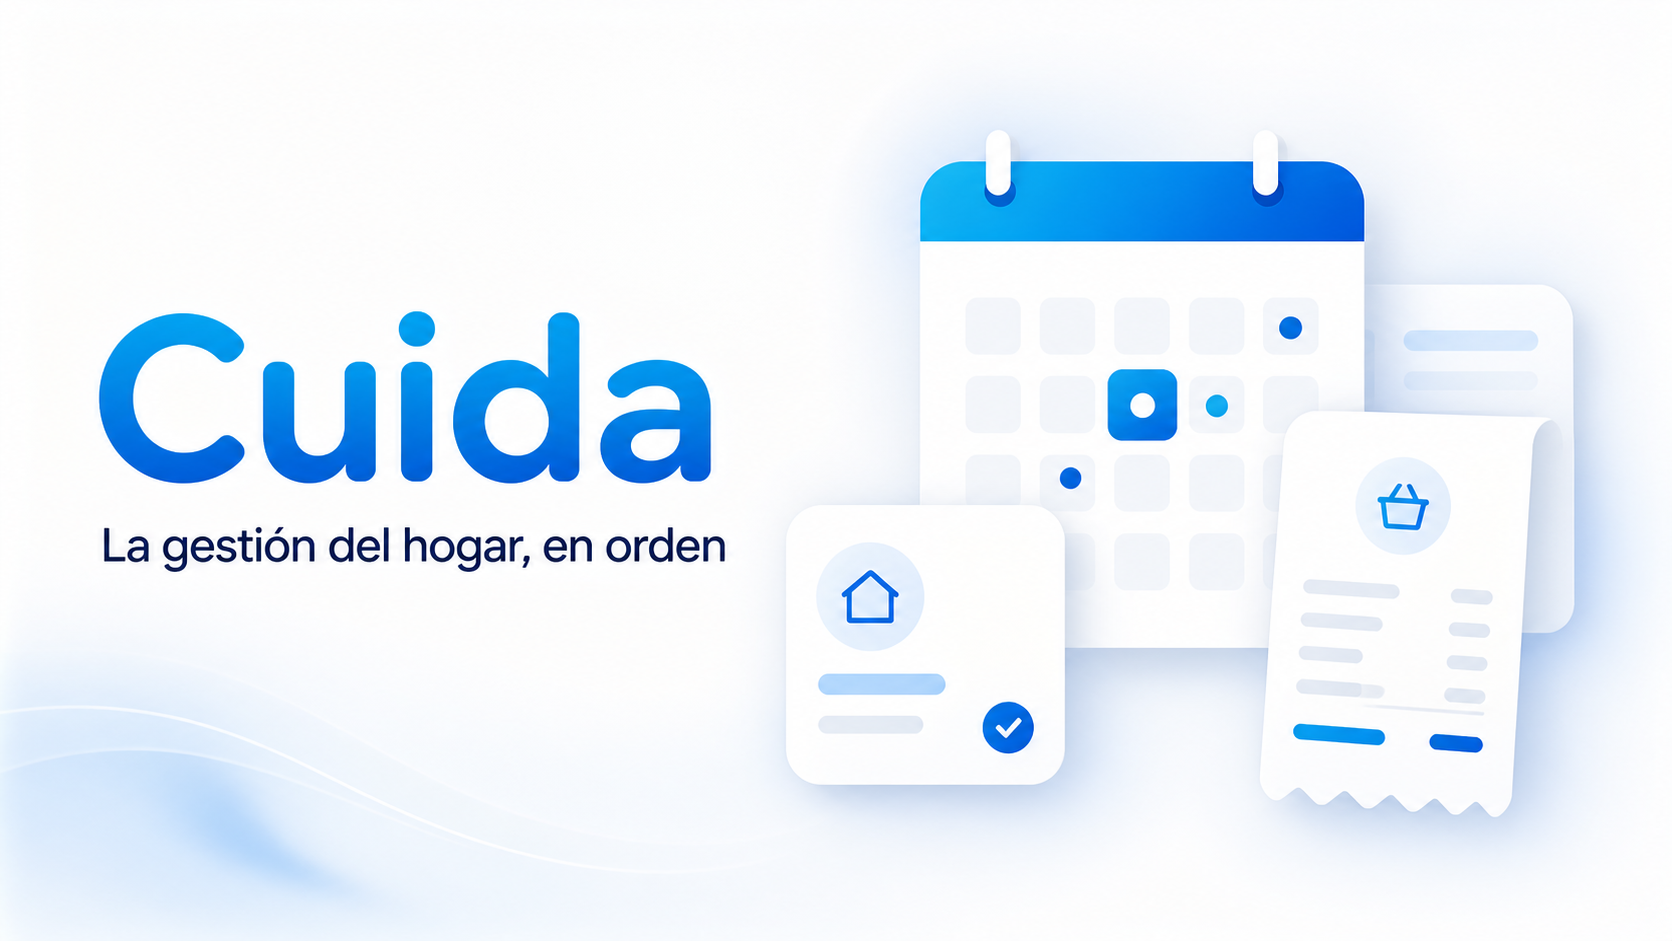
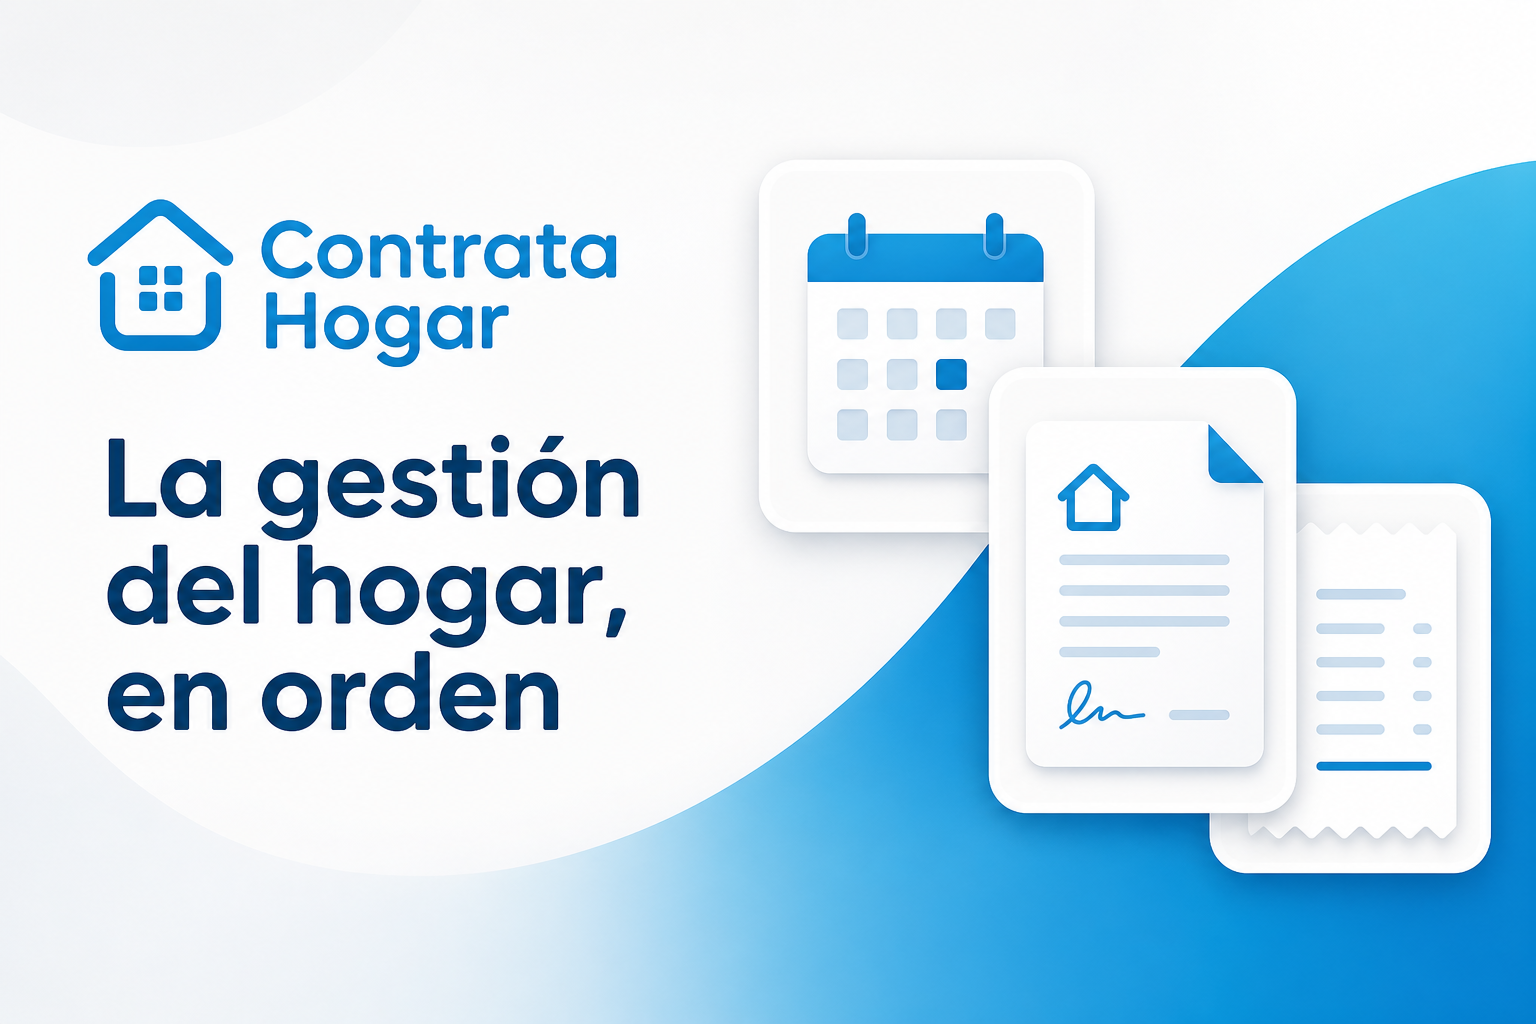
Rename app to Contrata Hogar

diff --git a/app/page.tsx b/app/page.tsx
@@ -7,7 +7,13 @@ export default function Home(){
  const deduction=useMemo(()=>+(salary*.0637).toFixed(2),[salary]),net=salary-deduction;
  const notify=(m:string)=>{setToast(m);window.setTimeout(()=>setToast(''),2600)};
  return <main className="shell">
-  <aside className="sidebar"><a className="brand" href="#top"><b>C</b><span>cuida</span></a><nav><a className="active" href="#top"><i>⌂</i><span>Resumen</span></a><a href="#persona"><i>♙</i><span>Persona</span></a><a href="#docs"><i>▤</i><span>Documentos</span></a><a href="#tareas"><i>□</i><span>Calendario</span></a></nav><div className="sidebottom"><a href="#ajustes"><i>⚙</i><span>Ajustes</span></a><div className="profile"><b>JM</b><p>Jorge M.<small>Empleador</small></p></div></div></aside>
+  <aside className="sidebar"><a className="brand" href="#top" aria-label="Contrata Hogar, inicio"><b>C</b><span>Contrata Hogar</span></a>
+<nav><a className="active" href="#top"><i>⌂</i><span>Resumen</span></a>
+<a href="#persona"><i>♙</i><span>Persona</span></a>
+<a href="#docs"><i>▤</i><span>Documentos</span></a>
+<a href="#tareas"><i>□</i><span>Calendario</span></a>
+</nav><div className="sidebottom"><a href="#ajustes"><i>⚙</i><span>Ajustes</span></a>
+<div className="profile"><b>JM</b><p>Jorge M.<small>Empleador</small></p></div></div></aside>
   <section className="workspace" id="top"><header><div><small>DOMINGO, 30 DE AGOSTO</small><h1>Buenos días, Jorge</h1></div><button className="help" onClick={()=>notify('Centro de ayuda: disponible en la siguiente versión')}>ⓘ Ayuda</button></header>
    <div className="content"><section className="hero"><div><label><i/> RELACIÓN LABORAL ACTIVA</label><h2>Todo está al día</h2><p>Tu próxima tarea es pagar la nómina de agosto.</p></div><div className="next"><span>Próximo pago</span><b>31 AGO</b><small>Mañana</small></div></section>
     <Title title="Este mes" action="Ver calendario →" onClick={()=>notify('Calendario abierto')}/>

diff --git a/app/layout.tsx b/app/layout.tsx
@@ -2,5 +2,5 @@ import type {Metadata} from 'next';
 import {Geist} from 'next/font/google';
 import './globals.css';
 const geist=Geist({variable:'--font-geist',subsets:['latin']});
-export const metadata:Metadata={title:'Cuida · Gestión del hogar',description:'Pagos, recibos y recordatorios para gestionar una relación laboral en el hogar.',openGraph:{title:'Cuida',description:'La gestión del hogar, en orden',images:[{url:'/og.png',width:1672,height:941,alt:'Cuida — La gestión del hogar, en orden'}]},twitter:{card:'summary_large_image',title:'Cuida',description:'La gestión del hogar, en orden',images:['/og.png']}};
+export const metadata:Metadata={title:'Contrata Hogar · Gestión del hogar',description:'Pagos, recibos y recordatorios para gestionar una relación laboral en el hogar.',openGraph:{title:'Contrata Hogar',description:'La gestión del hogar, en orden',images:[{url:'/og.png',width:1536,height:1024,alt:'Contrata Hogar — La gestión del hogar, en orden'}]},twitter:{card:'summary_large_image',title:'Contrata Hogar',description:'La gestión del hogar, en orden',images:['/og.png']}};
 export default function RootLayout({children}:{children:React.ReactNode}){return <html lang="es"><body className={geist.variable}>{children}</body></html>}
